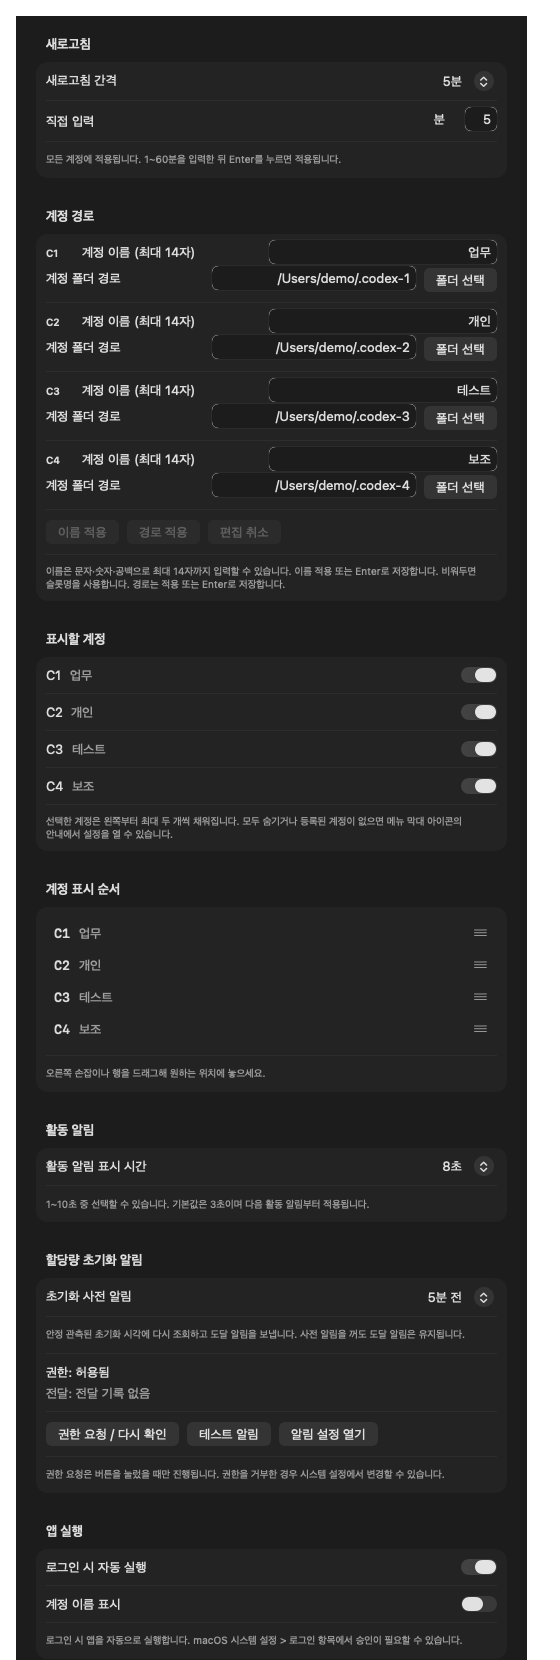
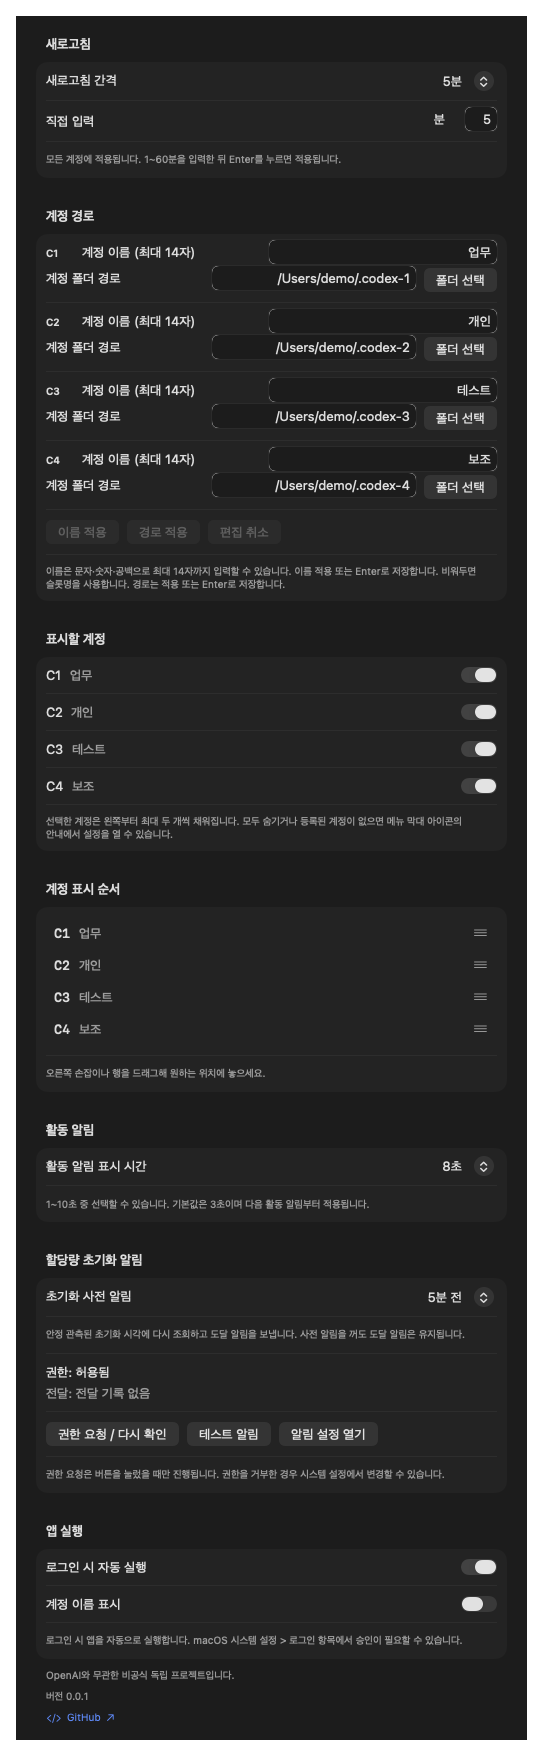
docs: Codex 제작 안내와 설치 방법 및 설정 이미지 갱신

diff --git a/README.md b/README.md
@@ -1,6 +1,7 @@
 # Codex Quota Monitor
 
 - macOS 메뉴 막대·노치에서 최대 4개 Codex 계정의 할당량과 로컬 활동 확인
+- Codex를 활용해 제작한 비공식 독립 앱
 
 ![앱 화면 예시](resource/images/app-example.png)
 
@@ -17,6 +18,48 @@
 | 리셋권 확인 | 서버에서 제공하는 잔여 개수와 소멸일 확인 |
 | 서비스 상태 | OpenAI 공개 서비스 상태와 공식 상태 페이지 확인 |
 
+## 요구 사항
+
+- macOS 14 이상
+- 설치·로그인된 Codex CLI
+- 시스템 알림 사용 시 `.app` 실행과 macOS 알림 권한 허용
+
+## 설치
+
+### 릴리스 다운로드 설치
+
+- 제공 앱: macOS 14 이상, Apple Silicon(arm64)용 ZIP
+- Intel Mac은 소스 빌드 필요; 별도 검증된 Intel 배포 파일 미제공
+
+1. [GitHub Releases](https://github.com/jh-shi-n/codex_quota_checker/releases)에서 앱 ZIP 다운로드
+2. 압축 해제 후 `CodexQuotaMonitor.app`을 응용 프로그램 폴더로 이동
+3. 앱 실행
+4. 개발자 확인 불가 또는 Apple의 악성 소프트웨어 검사 여부를 확인할 수 없다는 경고로 차단된 경우, 출처를 신뢰하는 앱에 한해 **시스템 설정 → 개인정보 보호 및 보안 → 확인 없이 열기** 선택
+5. 확인 창에서 실행 허용
+
+- 임시 서명(ad-hoc) 적용, Apple Developer ID 서명·공증 미적용
+- 임시 서명만으로 macOS의 첫 실행 승인이 생략되는 것은 아님
+- 사용자에 의한 별도 서명 명령 실행 불필요
+- 첫 실행 허용 절차: [Apple 공식 안내](https://support.apple.com/ko-kr/102445)
+
+### 소스에서 직접 빌드
+
+- Swift tools 6.0 지원 도구 체인과 macOS SDK 필요
+- 빌드·패키징 과정에서 임시 서명 자동 적용, 유료 Apple Developer 계정·인증서 불필요
+
+```bash
+git clone https://github.com/jh-shi-n/codex_quota_checker.git
+cd codex_quota_checker
+scripts/package_app.sh --output "$PWD/codex/CodexQuotaMonitor.app" --configuration release
+open "$PWD/codex/CodexQuotaMonitor.app"
+```
+
+- 이미 저장소를 내려받은 경우 저장소 루트에서 패키징 명령부터 실행
+- 생성된 앱을 응용 프로그램 폴더로 옮겨 사용 가능
+- 직접 빌드한 앱도 macOS 보안 설정에 따라 추가 실행 승인 가능
+- 다른 Mac에 전달한 앱은 해당 Mac에서 첫 실행 허용이 필요할 수 있음
+- 개발 중 테스트 실행: 저장소 루트에서 `swift test`
+
 ## 시작하기
 
 1. 사용할 계정을 Codex CLI에서 로그인
@@ -32,35 +75,17 @@
 
 ## 설정
 
-- 계정 폴더·표시 계정·표시 순서 설정
+- 계정 폴더·표시 계정 설정
+- 계정 이름: 문자·숫자·공백으로 최대 14자, 미입력 시 C1–C4 표시
+- 계정 표시 순서: 행 또는 오른쪽 손잡이를 드래그해 변경
 - 새로고침 주기: 1~60분, 기본 5분
 - 초기화 사전 알림: 끔·3분 전·5분 전·10분 전
-- 활동 알림 표시 시간·계정 라벨 표시 설정
+- 활동 알림 표시 시간: 1~10초, 기본 3초
+- 계정 이름 표시 설정
 - macOS 로그인 시 자동 실행 설정
 - 시스템 알림 권한 확인·요청과 테스트 알림 제공
 
 ![설정 화면 예시](resource/images/settings-example.png)
-
-## 요구 사항
-
-- macOS 14 이상
-- 설치·로그인된 Codex CLI
-- 시스템 알림 사용 시 `.app` 실행과 macOS 알림 권한 허용
-
-## 빌드·실행
-
-- 소스 빌드 시 Swift tools 6.0 지원 환경 필요
-- 저장소 루트에서 실행
-
-```bash
-swift build
-swift test
-scripts/package_app.sh --output /path/to/CodexQuotaMonitor.app --configuration release
-open /path/to/CodexQuotaMonitor.app
-```
-
-- 생성된 앱을 응용 프로그램 폴더로 복사하여 사용 가능
-- 로컬 실행용 임시 서명 제공, 배포용 서명·공증 미제공
 
 ## 데이터와 표시 범위
 
@@ -68,7 +93,8 @@ open /path/to/CodexQuotaMonitor.app
 - 계정 인증 파일·API 키·OAuth 토큰의 설정·캐시 복사 제외
 - 사용자 설정과 최초 등록 이력은 로컬에 저장
 - 할당량·토큰 집계 캐시는 마지막 정상 결과 복원에 사용
-- 토큰 집계 캐시는 마지막 성공 업데이트부터 14일 보관, 원본 세션 파일 삭제 제외
+- 토큰 집계 범위는 최근 24주이며, 집계 결과 캐시는 마지막 성공 업데이트부터 14일 보관
+- 캐시 만료 시 원본 세션 파일 삭제 제외
 - 토큰 사용량·세션 활동은 등록한 계정 폴더의 로컬 기록 기준으로 서버 전체 기록과 차이 가능
 - Codex Desktop 앱의 실행 내역은 표시되지 않을 수 있음
 - 초기화 시간 설정은 실제 요청에 따른 사용량 발생 가능, 서버 초기화 시각 변경 보장 없음
